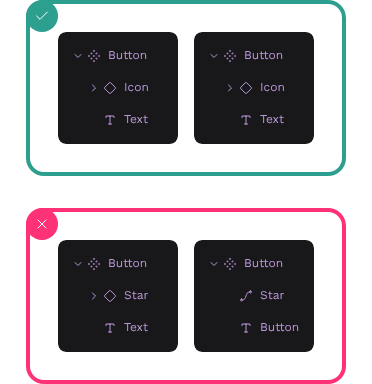
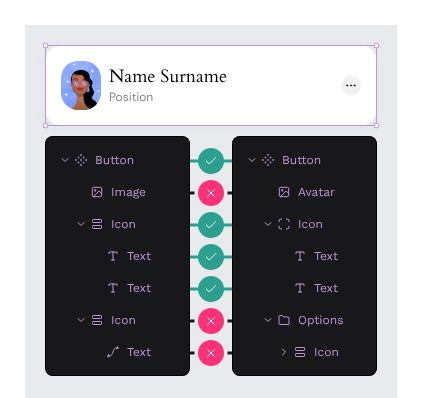
:bug: Apply design review fixes for variant connection help (#11186) (#7016)

diff --git a/frontend/src/app/main/ui/workspace/sidebar/options/menus/variants_help_modal.scss b/frontend/src/app/main/ui/workspace/sidebar/options/menus/variants_help_modal.scss
@@ -13,7 +13,7 @@
 .modal-dialog {
   @extend .modal-container-base;
 
-  max-width: $s-800;
+  max-width: $s-888;
   width: 100%;
   max-height: unset;
 }
@@ -27,6 +27,7 @@
   display: flex;
   color: var(--color-foreground-secondary);
   padding-block-end: $s-32;
+  gap: $s-32;
 }
 
 .modal-close-btn {
@@ -72,13 +73,20 @@
 .button-row {
   display: flex;
   justify-content: end;
-  padding-block-start: $s-8;
 }
 
 .help-text {
-  inline-size: 100%;
+  flex: 0 1 50%;
+
+  :last-child {
+    margin-block-end: 0;
+  }
 }
 
-.help-image img {
-  inline-size: 374px;
+.help-image {
+  flex: 0 1 50%;
+
+  img {
+    border-radius: $br-8;
+  }
 }

diff --git a/frontend/src/app/main/ui/workspace/sidebar/options/menus/component.scss b/frontend/src/app/main/ui/workspace/sidebar/options/menus/component.scss
@@ -35,6 +35,11 @@
 .title-spacing-component {
   justify-content: flex-start;
   gap: $s-4;
+  margin-bottom: $s-4;
+}
+
+.title-bar-variant {
+  flex-grow: 0;
 }
 
 .variants-help-modal-button {
